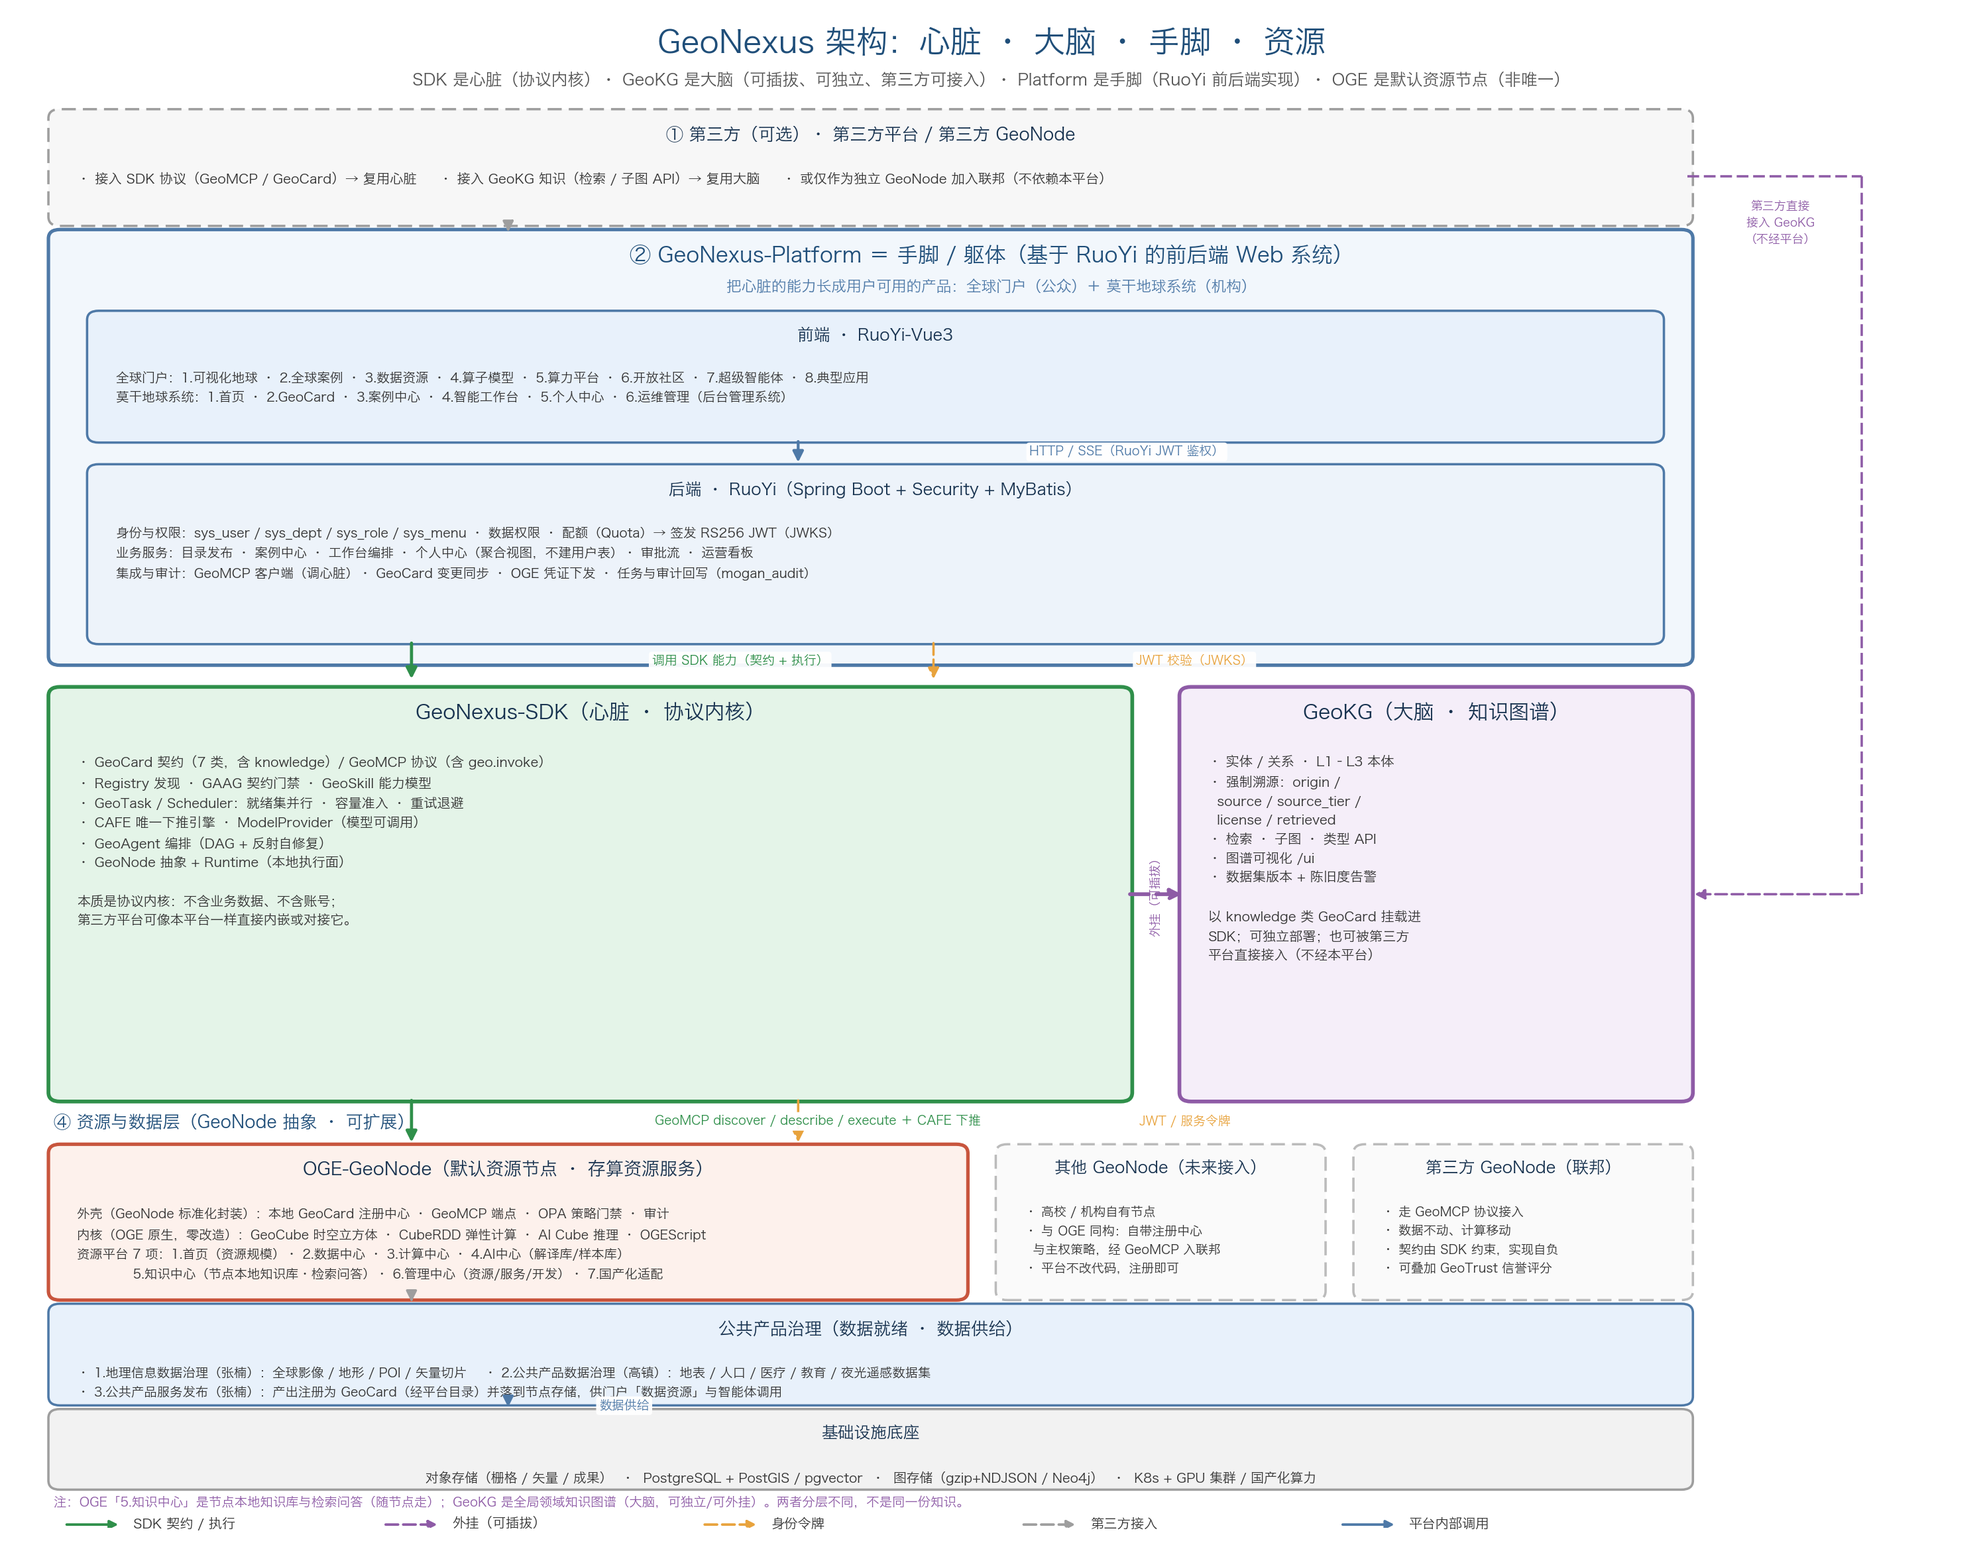
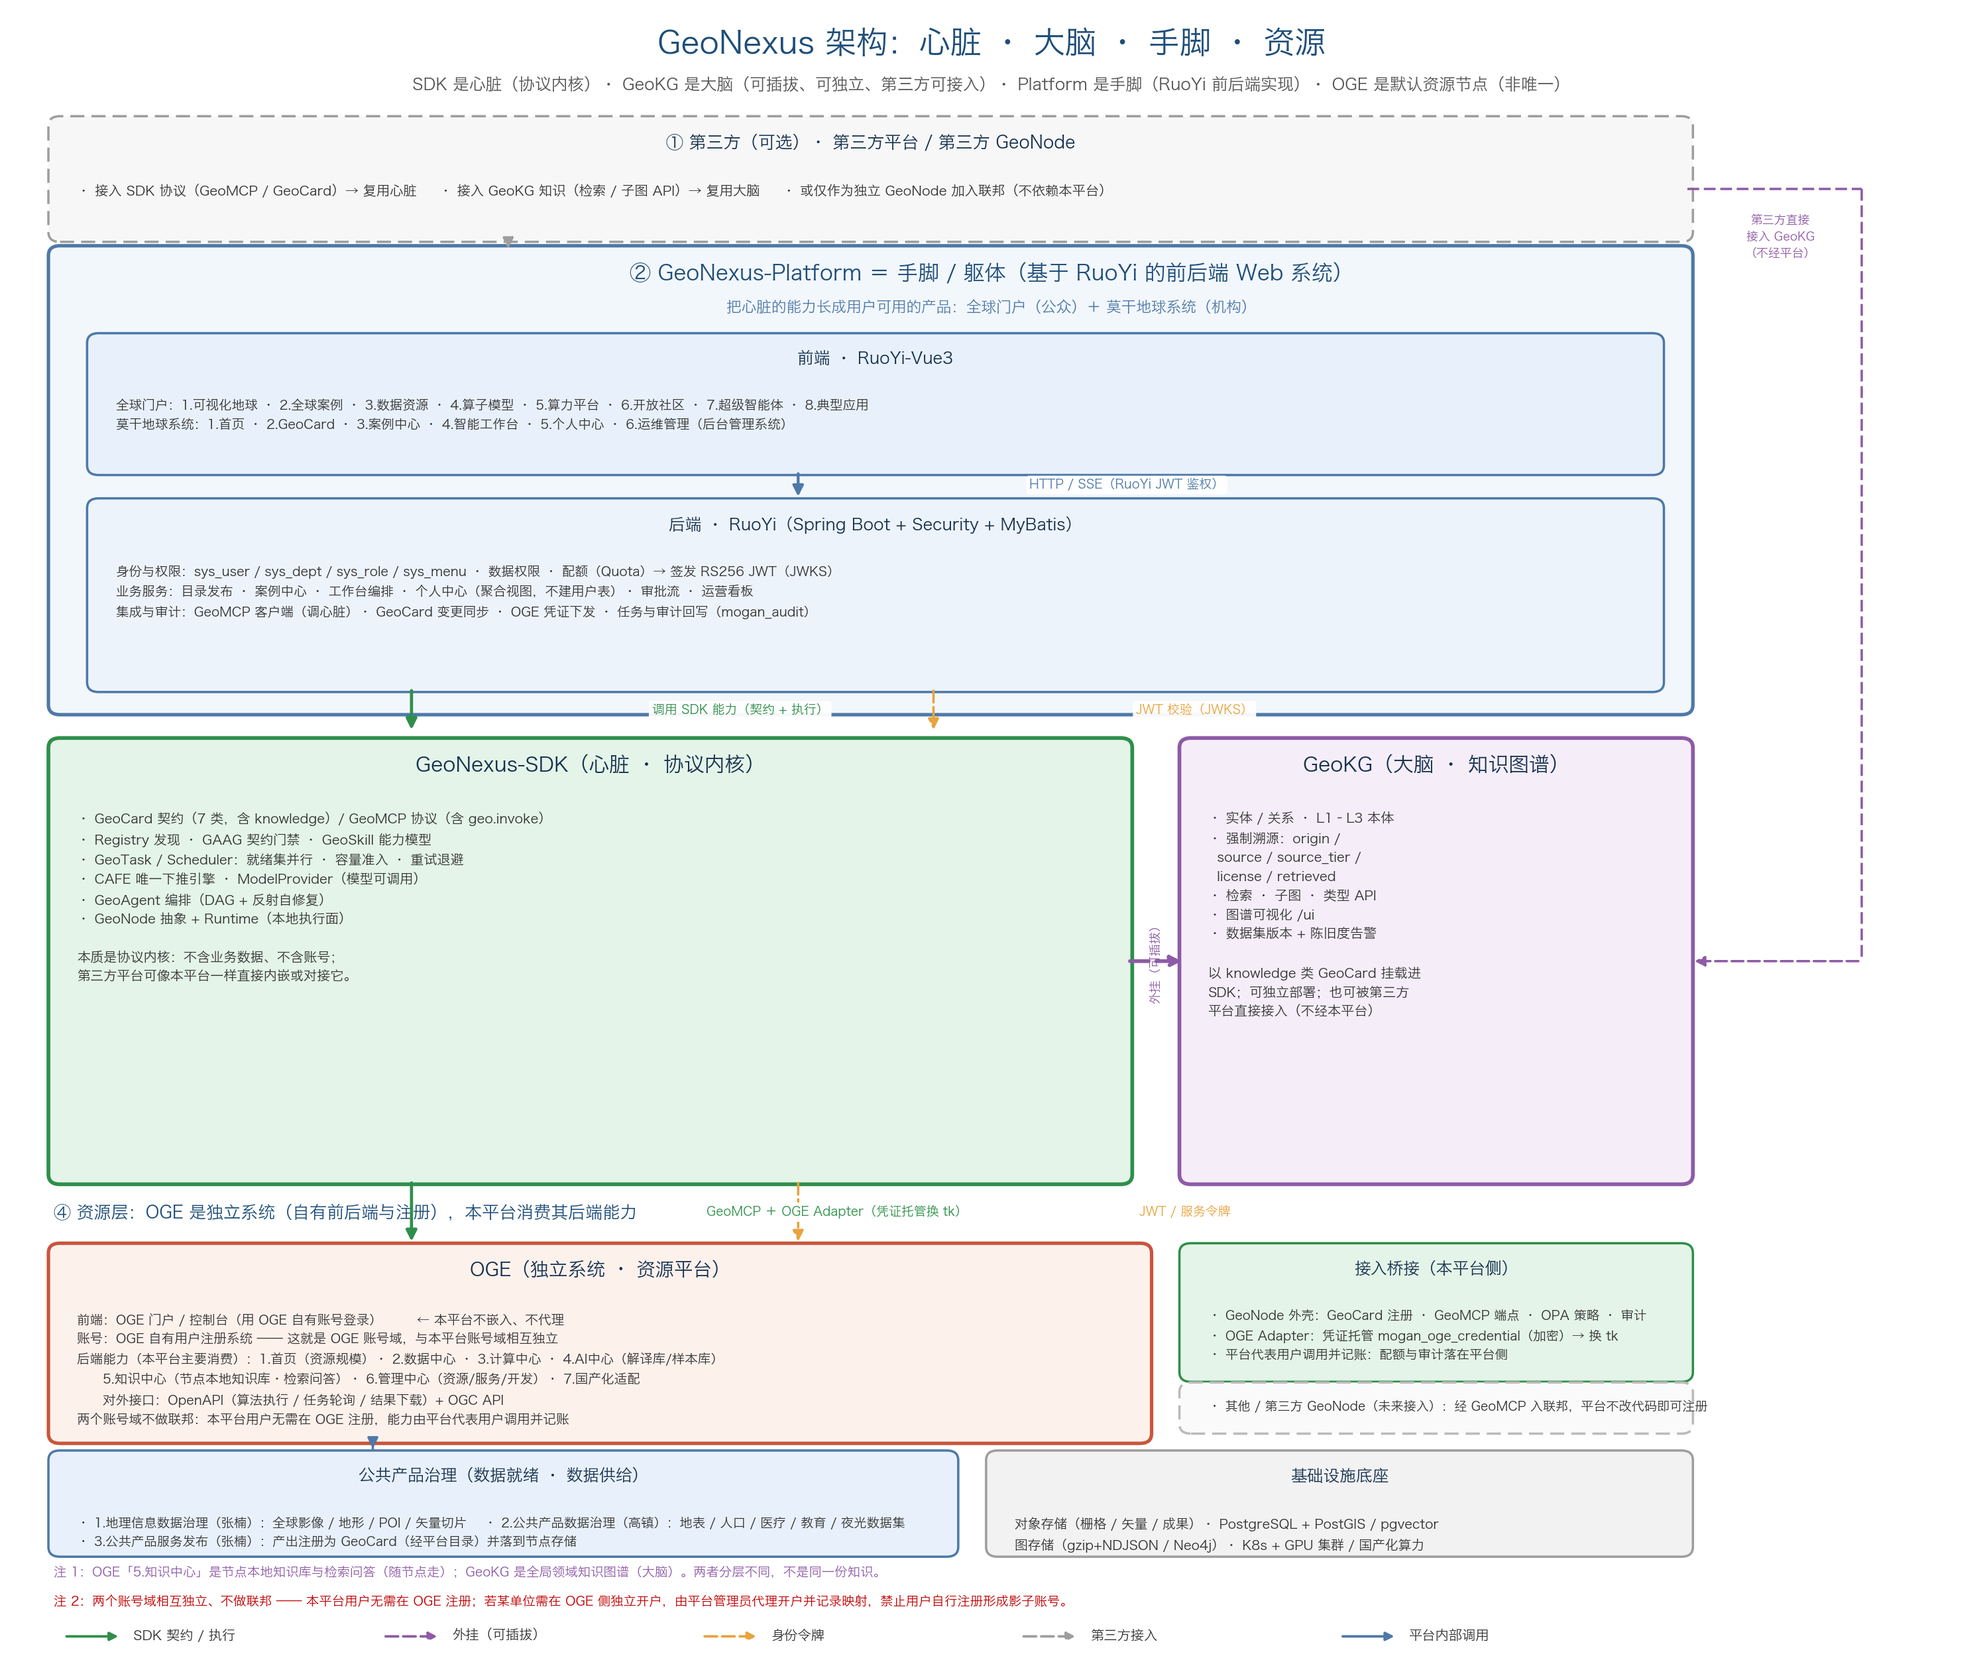
docs(arch): draw OGE as the independent system it is, and settle the two account domains
New information: OGE is not a node that belongs to this platform. It is a
standalone system with its own front end, its own back end and its own user
registration, and what this platform actually consumes is its back-end
capability (data, operators, compute).

The diagram now says so:

- OGE is drawn as an independent system with its own portal/console, its own
  registration (the OGE account domain) and its back-end capabilities listed by
  name - all seven resource-platform modules stay numbered so the one-to-one
  correspondence with the weekly plan survives. The platform does not embed its
  front end and does not proxy its login.
- Added the integration bridge as a separate box, because "consuming the back
  end" is a specific arrangement: a thin GeoNode shell (GeoCard registry, GeoMCP
  endpoint, OPA policy, audit) plus the OGE adapter on the execution side, with
  the platform's OGE application credential kept encrypted and exchanged for a
  tk at runtime.
- So there are two account domains, and they are deliberately not federated:
  users of this platform never register with OGE, the platform calls OGE on
  their behalf, and because OGE only ever sees "this application", usage and
  quota have to be accounted for on the platform side. If an institution really
  needs its own OGE account it is opened by an administrator with a recorded
  mapping, never by self-registration, so no shadow accounts can appear.
[…]

diff --git a/docs/make_architecture.py b/docs/make_architecture.py
@@ -89,7 +89,7 @@ def elbow(ax, pts, *, color="#9E9E9E", lw=1.5, ls=(0, (5, 2))):
                                  linewidth=lw, color=color, linestyle=ls, zorder=5))
 
 
-fig, ax = plt.subplots(figsize=(17.6, 13.8), dpi=170)
+fig, ax = plt.subplots(figsize=(17.6, 14.8), dpi=170)
 ax.set_xlim(0, 100)
 ax.set_ylim(0, 100)
 ax.axis("off")
@@ -161,43 +161,40 @@ arrow(ax, (57.0, 42.1), (60.0, 42.1), "", color="#8E5BA6", lw=2.4, style="=")
 ax.text(58.5, 42.1, "外挂（可插拔）", ha="center", va="center", fontsize=7.8,
         color="#8E5BA6", fontweight="bold", rotation=90)
 
-# ── ④ 资源节点层（GeoNode 抽象）──────────────────────────────────────────
-ax.text(LX, 26.6, "④ 资源与数据层（GeoNode 抽象 · 可扩展）",
-        fontsize=11, fontweight="bold", color="#1F4E79")
+# ── ④ 资源层：OGE 是独立系统 ─────────────────────────────────────────────
+ax.text(LX, 26.2, "④ 资源层：OGE 是**独立系统**（自有前后端与注册），本平台消费其后端能力"
+        .replace("**", ""), fontsize=11, fontweight="bold", color="#1F4E79")
 
-box(ax, LX, 15.4, 47.0, 9.8, "OGE-GeoNode（默认资源节点 · 存算资源服务）",
-    ["外壳（GeoNode 标准化封装）：本地 GeoCard 注册中心 · GeoMCP 端点 · OPA 策略门禁 · 审计",
-     "内核（OGE 原生，零改造）：GeoCube 时空立方体 · CubeRDD 弹性计算 · AI Cube 推理 · OGEScript",
-     "资源平台 7 项：1.首页（资源规模）· 2.数据中心 · 3.计算中心 · 4.AI中心（解译库/样本库）",
-     "             5.知识中心（节点本地知识库·检索问答）· 6.管理中心（资源/服务/开发）· 7.国产化适配"],
-    "ogenode", title_size=11.5, item_size=8.2, lw=2.2)
+box(ax, LX, 12.6, 56.5, 11.8, "OGE（独立系统 · 资源平台）",
+    ["前端：OGE 门户 / 控制台（用 OGE 自有账号登录）        ← 本平台不嵌入、不代理",
+     "账号：OGE 自有用户注册系统 —— 这就是 OGE 账号域，与本平台账号域相互独立",
+     "后端能力（本平台主要消费）：1.首页（资源规模）· 2.数据中心 · 3.计算中心 · 4.AI中心（解译库/样本库）",
+     "      5.知识中心（节点本地知识库·检索问答）· 6.管理中心（资源/服务/开发）· 7.国产化适配",
+     "      对外接口：OpenAPI（算法执行 / 任务轮询 / 结果下载）+ OGC API",
+     "两个账号域不做联邦：本平台用户无需在 OGE 注册，能力由平台代表用户调用并记账"],
+    "ogenode", title_size=12, item_size=8.3, lw=2.2)
 
-box(ax, 50.5, 15.4, 16.5, 9.8, "其他 GeoNode（未来接入）",
-    ["· 高校 / 机构自有节点",
-     "· 与 OGE 同构：自带注册中心",
-     "  与主权策略，经 GeoMCP 入联邦",
-     "· 平台不改代码，注册即可"],
-    "nodeN", title_size=10.5, item_size=8.0, dashed=True)
+box(ax, 60.0, 16.4, 26.0, 8.0, "接入桥接（本平台侧）",
+    ["· GeoNode 外壳：GeoCard 注册 · GeoMCP 端点 · OPA 策略 · 审计",
+     "· OGE Adapter：凭证托管 mogan_oge_credential（加密）→ 换 tk",
+     "· 平台代表用户调用并记账：配额与审计落在平台侧"],
+    "sdk", title_size=10.5, item_size=8.2)
 
-box(ax, 69.0, 15.4, 17.0, 9.8, "第三方 GeoNode（联邦）",
-    ["· 走 GeoMCP 协议接入",
-     "· 数据不动、计算移动",
-     "· 契约由 SDK 约束，实现自负",
-     "· 可叠加 GeoTrust 信誉评分"],
-    "nodeN", title_size=10.5, item_size=8.0, dashed=True)
+box(ax, 60.0, 13.2, 26.0, 2.6, "",
+    ["· 其他 / 第三方 GeoNode（未来接入）：经 GeoMCP 入联邦，平台不改代码即可注册"],
+    "nodeN", item_size=8.1, dashed=True)
 
-# ── ④b 数据供给：公共产品治理（计划表分项，3 项细分内容）──────────────────
-box(ax, LX, 8.4, RX - LX, 6.2, "公共产品治理（数据就绪 · 数据供给）",
+# ── ⑤ 数据供给与底座 ─────────────────────────────────────────────────────
+box(ax, LX, 5.6, 46.5, 6.0, "公共产品治理（数据就绪 · 数据供给）",
     ["· 1.地理信息数据治理（张楠）：全球影像 / 地形 / POI / 矢量切片    "
-     "· 2.公共产品数据治理（高镇）：地表 / 人口 / 医疗 / 教育 / 夜光遥感数据集",
-     "· 3.公共产品服务发布（张楠）：产出注册为 GeoCard（经平台目录）并落到节点存储，供门户「数据资源」与智能体调用"],
-    "front", title_size=11, item_size=8.2)
+     "· 2.公共产品数据治理（高镇）：地表 / 人口 / 医疗 / 教育 / 夜光数据集",
+     "· 3.公共产品服务发布（张楠）：产出注册为 GeoCard（经平台目录）并落到节点存储"],
+    "front", title_size=10.5, item_size=8.2)
 
-# ── ⑤ 底座 ───────────────────────────────────────────────────────────────
-box(ax, LX, 2.8, RX - LX, 4.8, "基础设施底座",
-    ["对象存储（栅格 / 矢量 / 成果）  ·  PostgreSQL + PostGIS / pgvector  ·  "
-     "图存储（gzip+NDJSON / Neo4j）  ·  K8s + GPU 集群 / 国产化算力"],
-    "infra", title_size=10.5, item_size=8.4, align="center")
+box(ax, 50.0, 5.6, 36.0, 6.0, "基础设施底座",
+    ["对象存储（栅格 / 矢量 / 成果）· PostgreSQL + PostGIS / pgvector",
+     "图存储（gzip+NDJSON / Neo4j）· K8s + GPU 集群 / 国产化算力"],
+    "infra", title_size=10.5, item_size=8.4)
 
 # ── 箭头（只连相邻层，互不穿越；标签全部落在层间空白带）──────────────────
 arrow(ax, (25.0, 86.8), (25.0, 85.9), "", color="#9E9E9E", lw=1.5, style="=")
@@ -207,33 +204,34 @@ arrow(ax, (20.0, 59.0), (20.0, 56.2), "调用 SDK 能力（契约 + 执行）",
       color="#2F8F4A", lw=2.0, ldx=17.0, lsize=8)
 arrow(ax, (47.0, 59.0), (47.0, 56.2), "JWT 校验（JWKS）",
       color="#E8A33D", lw=1.5, style="=", ldx=13.5, lsize=8)
-arrow(ax, (20.0, 28.6), (20.0, 25.4), "GeoMCP discover / describe / execute ＋ CAFE 下推",
-      color="#2F8F4A", lw=2.0, style="-", ldx=21.0, lsize=8)
-arrow(ax, (40.0, 28.6), (40.0, 25.4), "JWT / 服务令牌",
+arrow(ax, (20.0, 28.6), (20.0, 24.6), "GeoMCP ＋ OGE Adapter（凭证托管换 tk）",
+      color="#2F8F4A", lw=2.0, style="-", ldx=22.0, lsize=8)
+arrow(ax, (40.0, 28.6), (40.0, 24.6), "JWT / 服务令牌",
       color="#E8A33D", lw=1.5, style="=", ldx=20.0, lsize=8)
-arrow(ax, (20.0, 15.4), (20.0, 14.8), "", color="#9E9E9E", lw=1.5)
-arrow(ax, (25.0, 8.4), (25.0, 7.8), "数据供给", color="#4E79A7", lw=1.5, ldx=6.0, lsize=8)
+arrow(ax, (18.0, 12.2), (18.0, 11.8), "", color="#4E79A7", lw=1.5)
 
 # 右侧走廊：第三方直接接入大脑（绕开平台，不穿任何盒子）
 elbow(ax, [(86.0, 89.8), (95.0, 89.8), (95.0, 42.1), (86.2, 42.1)], color="#8E5BA6", lw=1.5)
 ax.text(90.8, 88.2, "第三方直接\n接入 GeoKG\n（不经平台）", ha="center", va="top",
         fontsize=7.6, color="#8E5BA6", linespacing=1.5)
 
-# 边界提示：两处"知识中心"不是一回事
-ax.text(LX, 1.2, "注：OGE「5.知识中心」是**节点本地**知识库与检索问答（随节点走）；"
-                 "GeoKG 是**全局领域知识图谱**（大脑，可独立/可外挂）。两者分层不同，不是同一份知识。"
-        .replace("**", ""),
+# 边界提示：两处"知识中心"不是一回事；两个账号域也不做联邦
+ax.text(LX, 3.9, "注 1：OGE「5.知识中心」是节点本地知识库与检索问答（随节点走）；"
+                 "GeoKG 是全局领域知识图谱（大脑）。两者分层不同，不是同一份知识。",
         fontsize=8.2, color="#8E5BA6", va="bottom")
+ax.text(LX, 2.1, "注 2：两个账号域相互独立、不做联邦 —— 本平台用户无需在 OGE 注册；"
+                 "若某单位需在 OGE 侧独立开户，由平台管理员代理开户并记录映射，禁止用户自行注册形成影子账号。",
+        fontsize=8.2, color="#C00000", va="bottom")
 
 # ── 图例 ─────────────────────────────────────────────────────────────────
 x0 = 2.0
 for style, color, label in [("-", "#2F8F4A", "SDK 契约 / 执行"), ("=", "#8E5BA6", "外挂（可插拔）"),
                             ("=", "#E8A33D", "身份令牌"), ("=", "#9E9E9E", "第三方接入"),
                             ("-", "#4E79A7", "平台内部调用")]:
-    ax.add_patch(FancyArrowPatch((x0, 0.2), (x0 + 3.0, 0.2), arrowstyle="-|>",
+    ax.add_patch(FancyArrowPatch((x0, 0.4), (x0 + 3.0, 0.4), arrowstyle="-|>",
                                  mutation_scale=11, linewidth=1.6, color=color,
                                  linestyle={"=": (0, (5, 2))}.get(style, "-"), zorder=5))
-    ax.text(x0 + 3.6, 0.2, label, fontsize=8.6, va="center", color="#333333")
+    ax.text(x0 + 3.6, 0.4, label, fontsize=8.6, va="center", color="#333333")
     x0 += 16.5
 
 fig.tight_layout(rect=(0.004, 0.004, 0.996, 0.996))

diff --git a/docs/user-management.md b/docs/user-management.md
@@ -247,7 +247,7 @@ GET  /api/me/audit           GET /api/me/applications
 | **Platform** | 自己签发 | 本地 | `sys_menu.perms` + 数据范围 |
 | **SDK**（GeoMCP / 执行面） | Platform | 服务 API Key（证明"是平台"）+ **用户 JWT 透传**（证明"代表谁"） | `scopes`（如 `oge:execute`） |
 | **GeoKG** | Platform | 读：白名单可匿名；写：JWT + `scopes`（`kg:write`） | 仅"知识运营"角色可写 |
-| **OGE-GeoNode** | Platform | 外壳校验 JWT / 服务令牌 + OPA 策略（数据主权） | 按主权级别（`sovereignty`）与授权关系 |
+| **OGE（独立系统）** | 不接平台令牌 | 平台用自己在 OGE 的**应用凭证**（`mogan_oge_credential`）换 `tk` 调其后端 API；OGE 侧只认识平台这个应用 | 按 OGE 侧主权级别（`sovereignty`）与授权关系；**用户级权限由平台自己兜** |
 
 ### 8.2 用户上下文透传格式（Java → Python）
 
@@ -264,7 +264,28 @@ GET  /api/me/audit           GET /api/me/applications
 **红线**：执行面**不得**用服务账号身份冒充用户。若请求没有 `_identity`，只能执行"公共资产 + 平台级"
 操作，且审计里标记为 `svc_*`；反过来，服务账号不能携带用户 `_identity` 提升自己的数据范围。
 
-### 8.3 审计（两处都要落，且可关联）
+### 8.3 与 OGE 账号域的关系（重要）
+
+OGE 是**独立系统**，有**自己的用户注册与登录**。因此存在**两个账号域**：
+
+| | 平台账号域 | OGE 账号域 |
+|---|---|---|
+| 权威 | Platform / RuoYi `sys_user` | OGE 自有注册系统 |
+| 服务对象 | 门户、莫干地球系统、后台的全部用户 | OGE 的直接用户（其他机构 / 公众直接上 OGE） |
+| 本平台如何使用 | 用户在这里注册登录 | **普通用户不需要 OGE 账号**：平台用应用凭证代表用户调用 OGE 后端能力 |
+
+**四条规则**：
+
+1. **不做账号联邦**：不用 OGE 账号登录本平台，也不用平台账号登录 OGE 前端——身份权威只能有一个。
+2. **凭证托管**：平台在 OGE 的应用凭证存 `mogan_oge_credential`（AES 加密），由执行面的
+   `OgeCredentialManager` 运行时换取 `tk` 并自动续期；前端与浏览器**永远拿不到** OGE 凭证。
+3. **记账在平台**：因为 OGE 侧只认识平台这个应用，**用量与配额必须由平台自己记**
+   （`mogan_quota` + `mogan_audit`），否则没法回答"这个算子是谁用的、用了多少"。
+4. **禁止影子账号**：若某单位确实需要在 OGE 侧独立开户（要直连 OGE 前端做管理），
+   由**平台管理员代理开户**并在 `mogan_oge_account_map` 登记映射；
+   **不允许用户自行注册**——平台视野外的账号既记不到账，也管不住权限回收。
+
+### 8.4 审计（两处都要落，且可关联）
 
 | 记录 | 位置 | 内容 |
 |---|---|---|
@@ -308,6 +329,7 @@ sequenceDiagram
 | `mogan_quota` | **新增** | 部门 / 用户配额与消耗 |
 | `mogan_approval` | **新增** | 审批单（发布 / 上架 / 提权） |
 | `mogan_asset_acl` | **可选** | 资产级显式授权（`private` 资产的授权名单） |
+| `mogan_oge_account_map` | **可选** | 平台用户 ↔ OGE 账号映射（仅代理开户时用，见 8.3） |
 
 > 新表沿用既有 `mogan_` 前缀（若依风格：系统表 `sys_`、业务表按模块前缀）。
 
